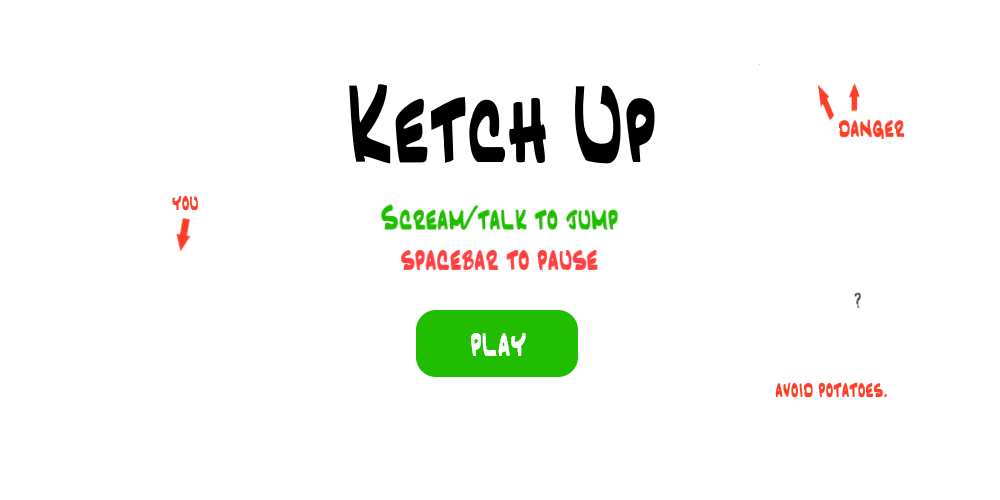
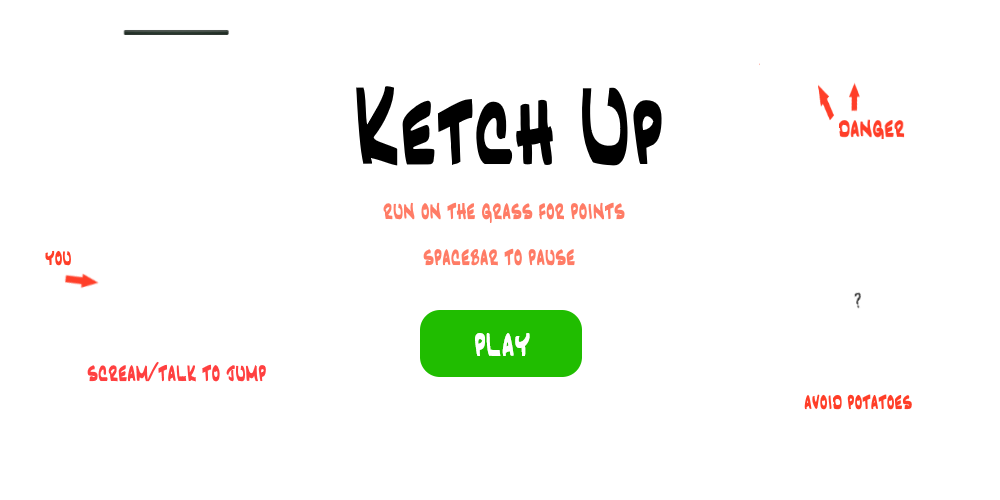
update start screen

diff --git a/src/sketch.js b/src/sketch.js
@@ -213,11 +213,29 @@ function startScreen(){
 	imageMode(CENTER);	//center the image
 	image(tomatoRunning[currentFrame%tomatoRunning.length], 175, tomatoHeight+20, 160, 120);
 
+	//get volume from mic (values b/w 0 and 1);
+	var vol = micInput.getLevel();
+	var threshold = 0.2;	//threshold for the volume(easier to test at 0.1)
+	var mapVolume = map(vol, 0, 1, 5, 15);	//map volume to how high tomato jumps
+	var mapGravity = map(vol, 0, 1, 2.5, 7.5);	//map gravity to how fast tomato should fall
+
+	if(vol > threshold && tomatoHeight > 50){
+		if(tomatoHeight <= 250){
+			tomatoHeight -= 10;
+		}
+		tomatoHeight -= mapVolume;
+	}
+	if(tomatoHeight<=250){
+		tomatoHeight += gravity;
+	}
+
 	//draw succulent
 	image(succImgs[currentFrame%succImgs.length], 820, 50);
 
-	//draw enemy
+	//draw enemies
 	image(potatoImgs[0], 820, 320);
+	image(walkingPotatoImgs[12], 900, 320, -70, -105);
+
 	//highlight start button if mouseover
 	if(mouseX>=425 && mouseX<=583.5 && mouseY>=370 && mouseY<=443){
 		noStroke();		//no stroke
